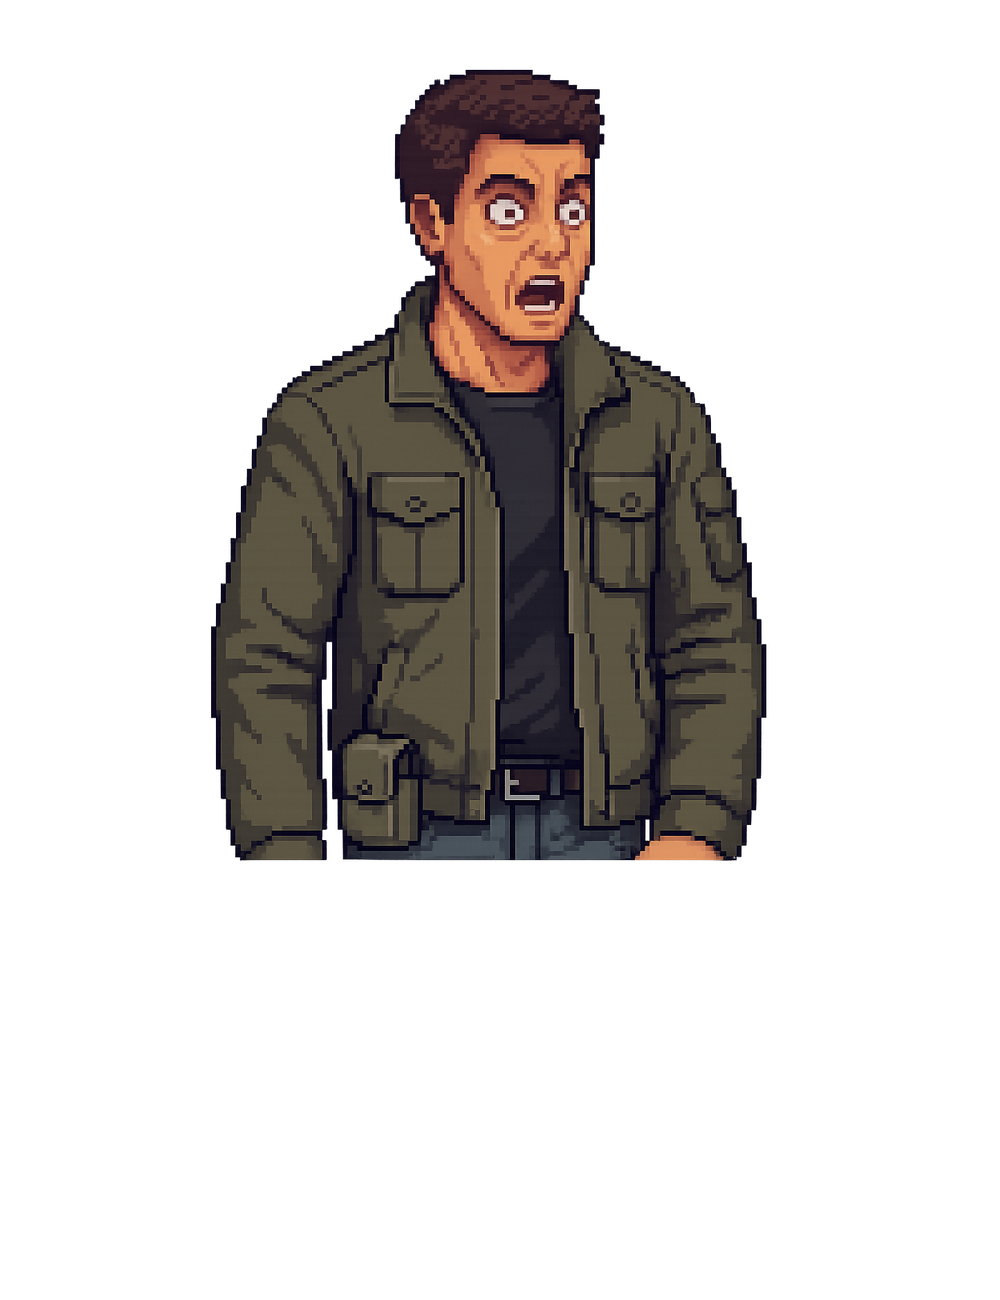
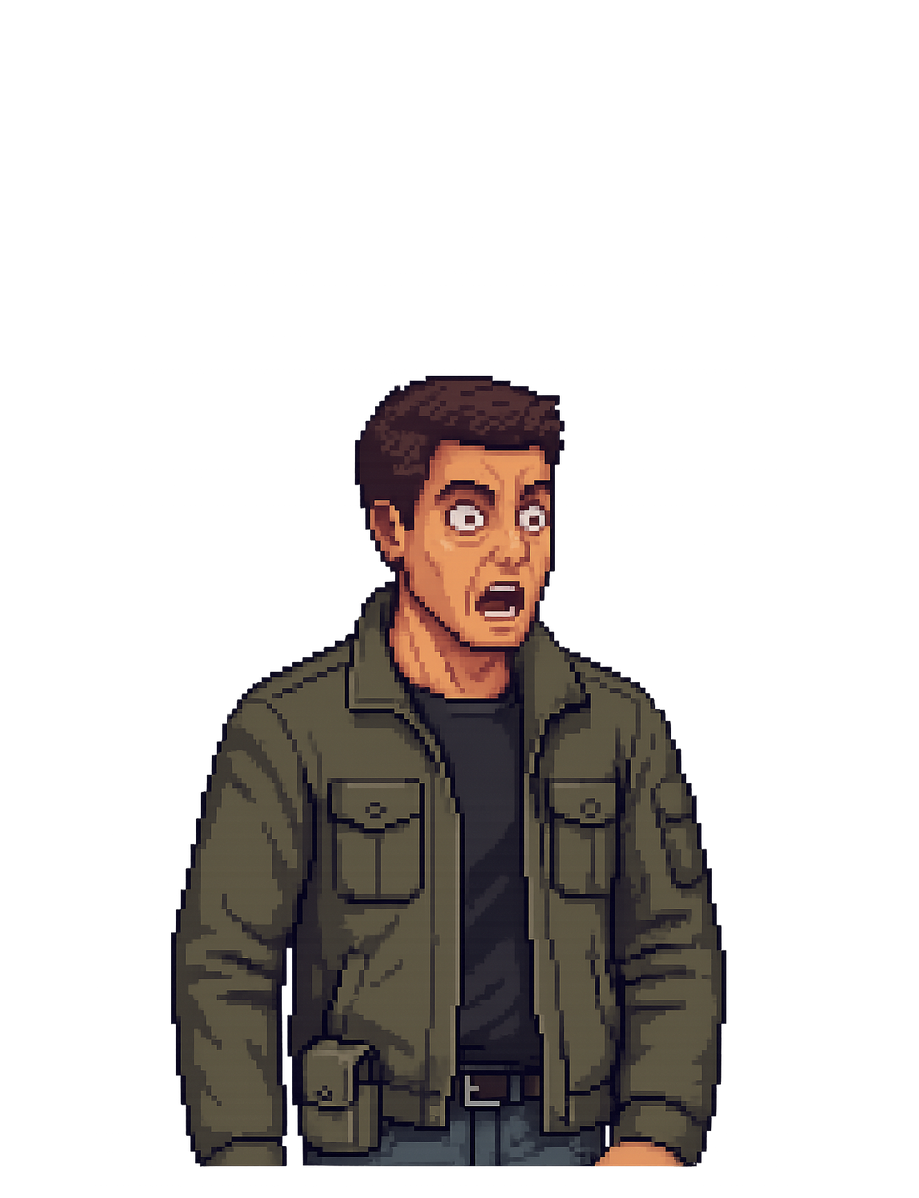
feat: update sprite assets, refine character outlines and placement, and optimize sound cue playback

diff --git a/README.md b/README.md
@@ -86,6 +86,6 @@ Lewat **Ren'Py Launcher → Build Distributions**, centang target Mac & Windows:
 ## Status Pengembangan
 
 - [x] **Minggu 1** — Setup project, deklarasi variabel, prototipe logika 3 ending *(lint lulus)*
-- [ ] **Minggu 2** — Naskah penuh + sprite diwarnai
-- [ ] **Minggu 3** — Integrasi aset gambar & audio (beta build)
+- [x] **Minggu 2** — Naskah penuh + sprite diwarnai
+- [x] **Minggu 3** — Integrasi aset gambar & audio (beta build)
 - [ ] **Minggu 4** — Testing, polish, build final `.app` / `.dmg` / `.exe`
